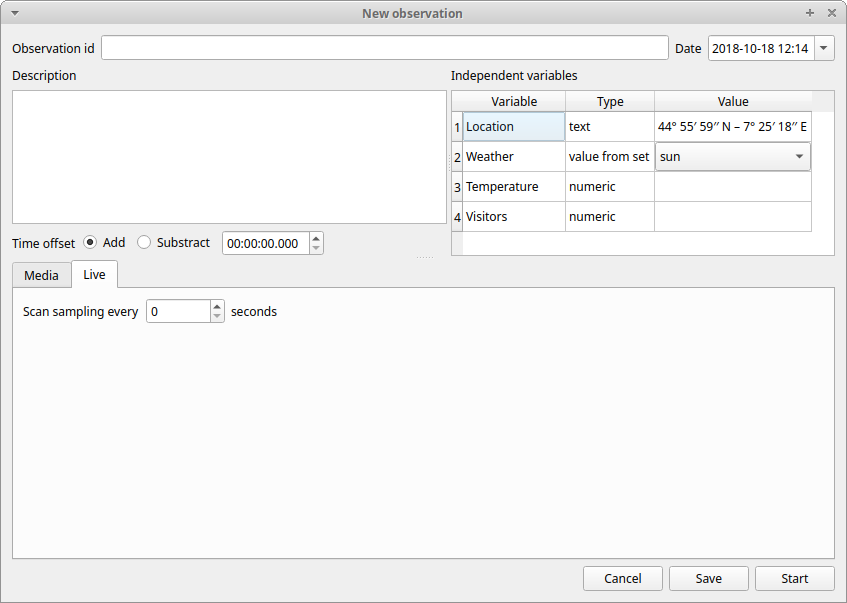
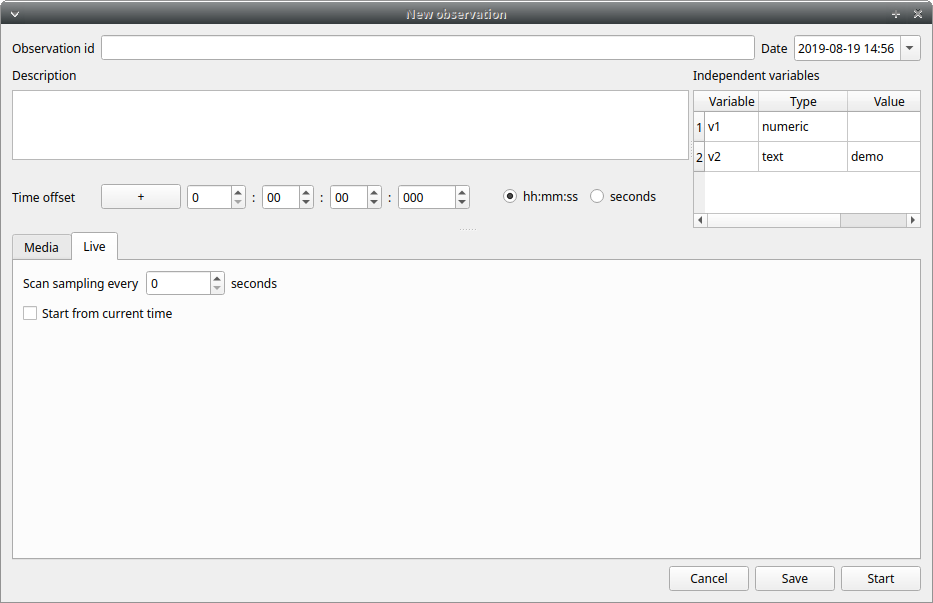
some work

diff --git a/observations.rst b/observations.rst
@@ -44,9 +44,17 @@ Choose the **Live tab** to make a live observation.
 
 
 
+**Scan sampling**
+
 In the above tab you can select a time for **Scan sampling** observation. In this case the timer will stop at every time offset
 you indicated and all the coded events will have the same time value.
 
+
+
+**Start from current time**
+
+If you want that the time starts from the current time you can check the **Start from current time** checkbox.
+The start time will be the computer current time when you will press the **Start** button.
 
 
 
